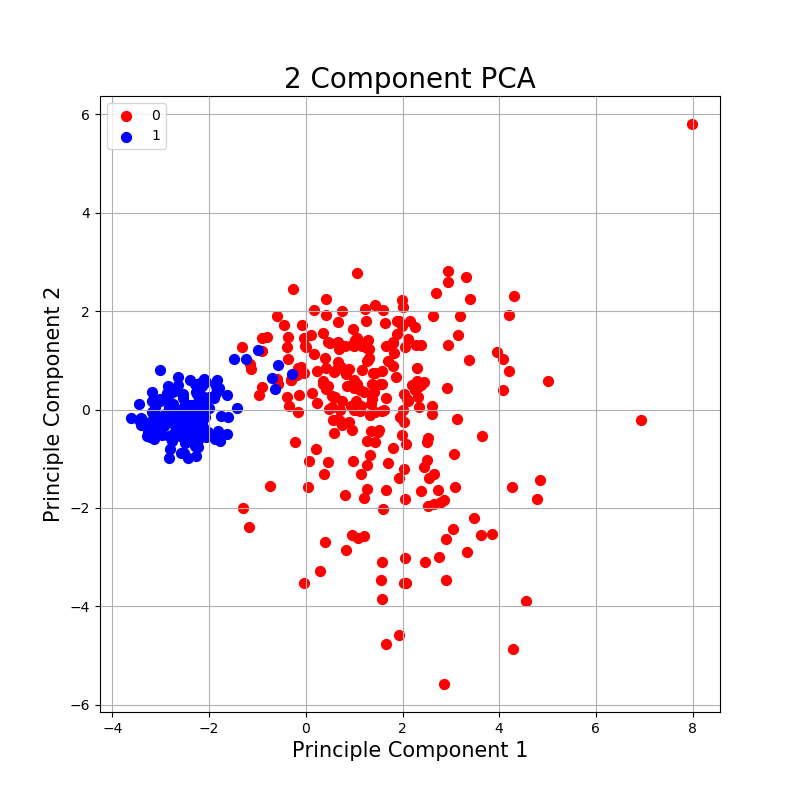
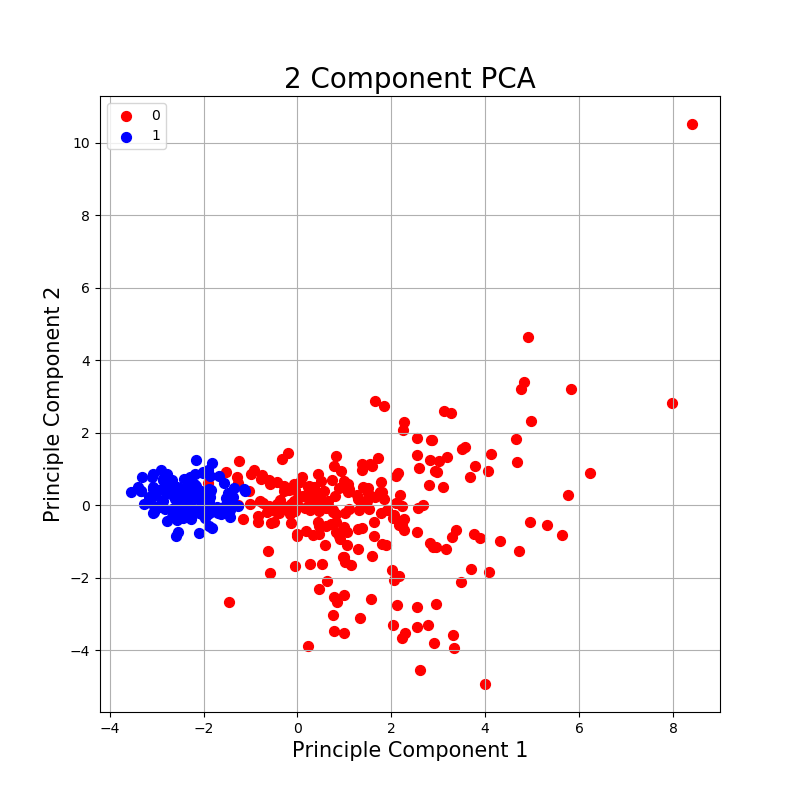
revamp missing data handling
eliminate a possible source of error

diff --git a/main.py b/main.py
@@ -1,4 +1,3 @@
-import glob
 import numpy as np
 import pandas as pd
 from tensorflow import keras as k
@@ -6,9 +5,10 @@ from sklearn.utils import shuffle
 import time
 from sklearn.decomposition import PCA
 import matplotlib.pyplot as plt
-from sklearn.preprocessing import StandardScaler
 import os
+
 os.environ['TF_CPP_MIN_LOG_LEVEL'] = '2'
+
 
 def findMax(df, column):
     max = -2147483648
@@ -20,7 +20,7 @@ def findMax(df, column):
     return max
 
 
-def normalize(df):
+def normalize(df):  # prepossesses data so that sd=1, mean=0
     for column in ['age', 'bp', 'sg', 'al', 'su', 'bgr', 'bu', 'sc', 'sod', 'pot', 'hemo', 'pcv', 'wbcc', 'rbcc']:
         total = 0.
         count = 0.
@@ -43,7 +43,7 @@ def normalize(df):
     return df
 
 
-def basicNormalize(df):
+def basicNormalize(df):  # makes every number 0-1 by dividing each column by its max
     for column in df.columns:
         max = findMax(df, column)
         for i, val in enumerate(df[column]):
@@ -69,6 +69,16 @@ def getXMatrix(df):
         else:
             arr = np.append(arr, getVector(df, i).T, axis=1)
     return arr
+
+
+def colmean(df, col):
+    total = 0
+    count = 0
+    for val in df[col]:
+        if (val != -1):
+            total += float(val)
+            count += 1
+    return total / count
 
 
 def getYVector(df):
@@ -153,15 +163,26 @@ df = pd.read_csv("data/csv_result-chronic_kidney_disease_full.csv")
 df = shuffle(df)
 data = df.reset_index(drop=True)
 data = data.drop(columns="id")
-for col in list(df):
+for col in list(data):
     c = 0
-    for val in df[col]:
+    for val in data[col]:
         if val == "no" or val == "abnormal" or val == "notpresent" or val == "poor" or val == "ckd":
             data[col].iloc[c] = 0
         elif val == "yes" or val == "normal" or val == "present" or val == "good" or val == "notckd":
             data[col].iloc[c] = 1
         elif val == "?":
             data[col].iloc[c] = -1
+        c += 1
+
+colmeans = dict()
+for col in data.columns:
+    colmeans.update({col: colmean(data, col)})
+
+for col in list(data):
+    c = 0
+    for val in data[col]:
+        if val == -1:
+            data[col].iloc[c] = colmeans[col]
         c += 1
 
 # proper slicing
@@ -176,6 +197,8 @@ trainx = getXMatrix(normalize(traindfx)).T  # (280, 24), Keras like to have m, n
 testx = getXMatrix(normalize(testdfx)).T  # (120, 24)
 trainy = getYVector(traindfy).T  # (280, 1)
 testy = getYVector(testdfy).T  # (120, 1)
+np.save("data/testx", testx)
+np.save("data/testy", testy)
 
 # keras automatically does validation split for tb
 dfy = data['class']
